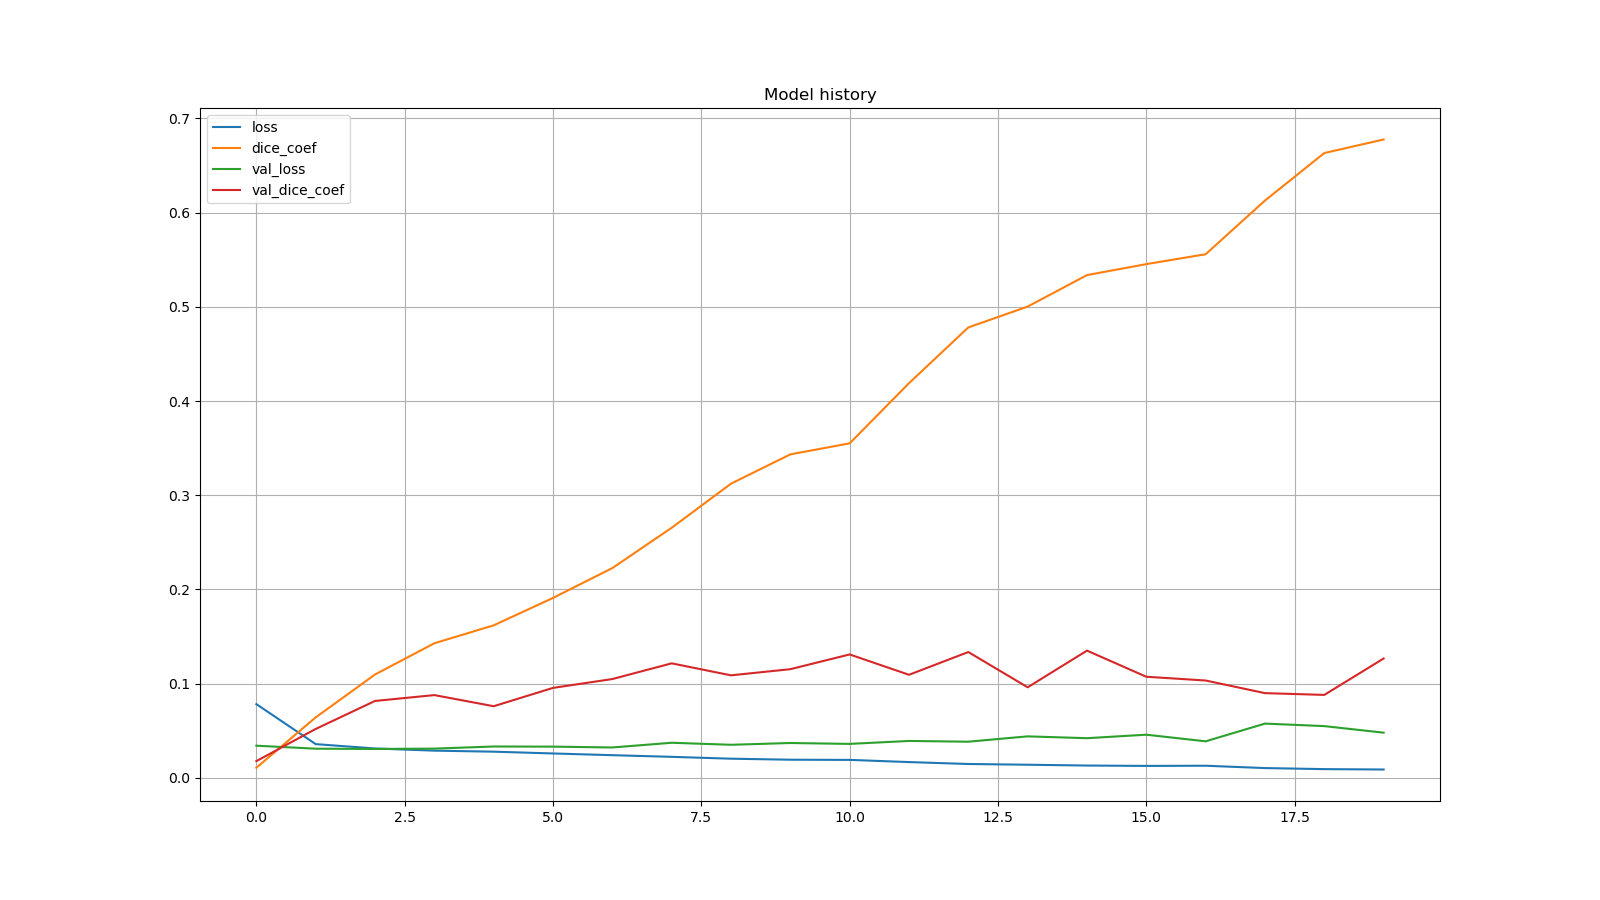
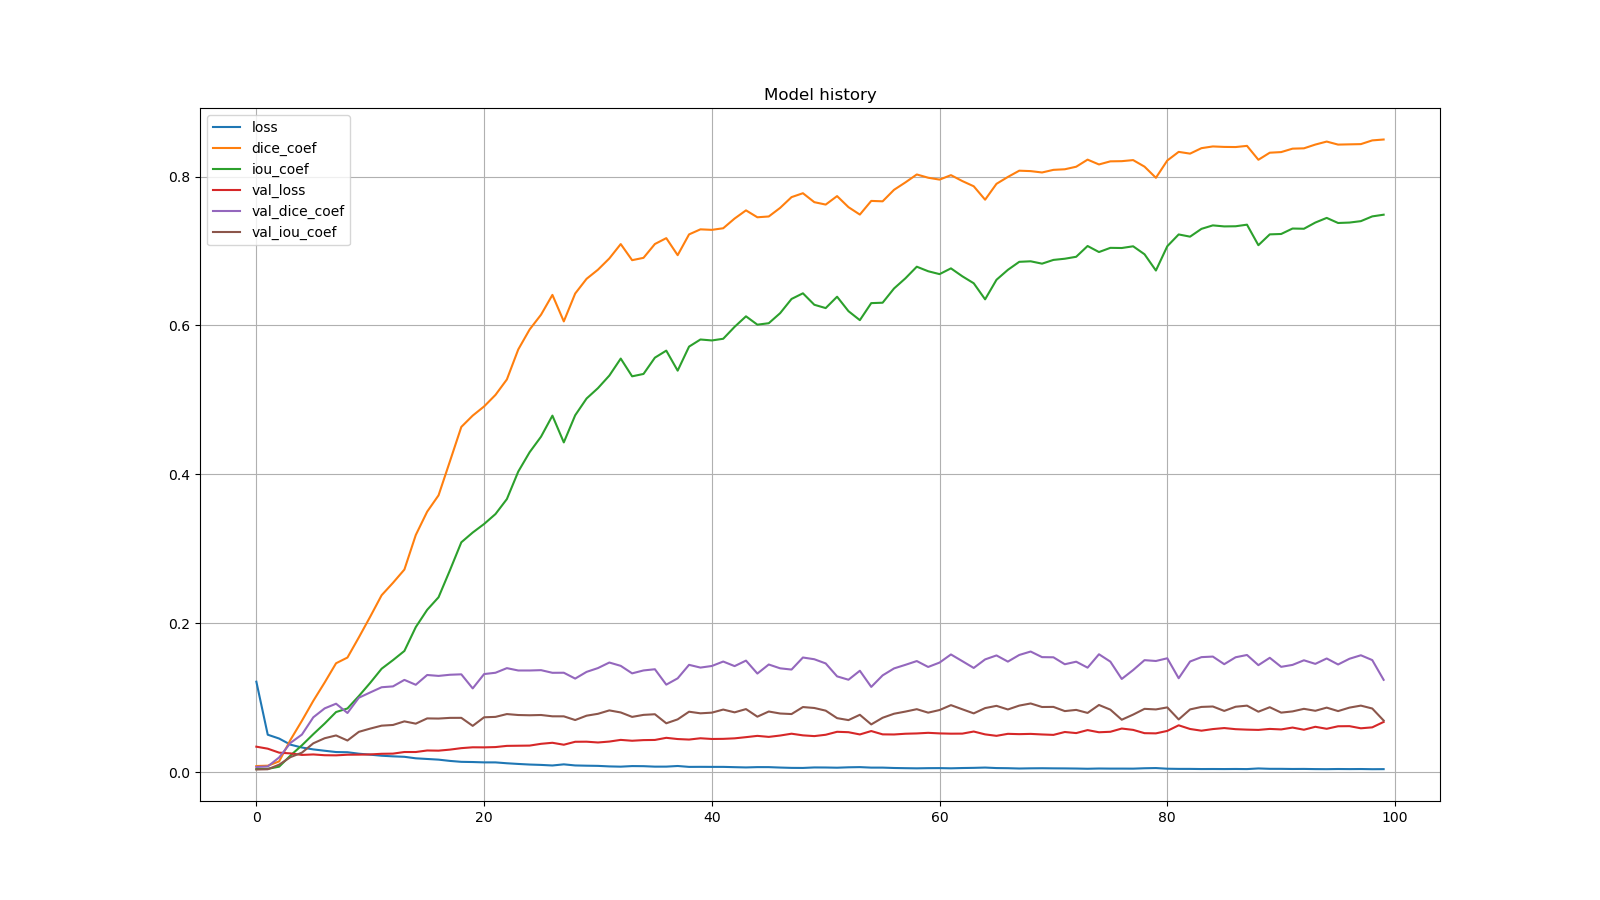
- Added jaccard score to the training and evaluation - Set to train with the whole train set (using test as validation set)

diff --git a/U-Net/train.py b/U-Net/train.py
@@ -7,6 +7,7 @@ import utils
 import os 
 from tensorflow.keras import backend as K
 import numpy as np
+from utils import DiceSimilarity, jaccard
 
 flags.DEFINE_string('train_Dataset','./tfrecords/train-data.tfrecord','path to train Dataset')
 flags.DEFINE_float('val_split',0.2,'size of the validation split')
@@ -15,12 +16,6 @@ flags.DEFINE_integer('buffer_size', 100, 'buffer')
 flags.DEFINE_integer('batch_size', 5, 'batch size')
 flags.DEFINE_integer('epochs', 10, 'Epochs')
 flags.DEFINE_integer('save_freq', 5, 'frequency of epochs to save')
-
-def dice_coef(y_true, y_pred):
-  intersection = K.sum(y_true * y_pred, axis=[1,2,3])
-  union = K.sum(y_true, axis=[1,2,3]) + K.sum(y_pred, axis=[1,2,3])
-  dice = K.mean((2. * intersection)/(union), axis=0)
-  return dice
 
 
 def main(_argv):
@@ -34,8 +29,6 @@ def main(_argv):
 
     # Load train dataset
     
-    # train_Dataset =  utils.load_tfrecord_dataset(train_Dataset_path,image_size)
-    # train_Dataset = train_Dataset.shuffle(buffer_size=FLAGS.buffer_size)
     X_path = "./Dataset_Unificado/Train/Processed_Images"
     Y_path = "./Dataset_Unificado/Train/BinaryMasks"
     X = utils.load_data(X_path,size=image_size)
@@ -43,16 +36,14 @@ def main(_argv):
     Y = Y[:,:,:,0]
     Y = np.expand_dims(Y,axis=-1)
 
-    # Split train and validation according to val_split
+    # Load test dataset
 
-    # train_Dataset, val_Dataset = utils.split_dataset(train_Dataset,FLAGS.val_split)
-
-    # Batch and prefetch
-
-    # train_Dataset = train_Dataset.batch(FLAGS.batch_size,drop_remainder=True)
-    # train_Dataset = train_Dataset.prefetch(buffer_size = tf.data.experimental.AUTOTUNE)
-    # val_Dataset = val_Dataset.batch(FLAGS.batch_size,drop_remainder=True)
-    # val_Dataset = val_Dataset.prefetch(buffer_size = tf.data.experimental.AUTOTUNE)
+    X_val_path = "./Dataset_Unificado/Test/Processed_Images"
+    Y_val_path = "./Dataset_Unificado/Test/BinaryMasks"
+    X_val = utils.load_data(X_val_path,size=image_size)
+    Y_val = utils.load_data(Y_val_path, size=image_size)
+    Y_val = Y_val[:,:,:,0]
+    Y_val = np.expand_dims(Y_val,axis=-1)
 
     # Load model
 
@@ -71,7 +62,7 @@ def main(_argv):
     model.save_weights(checkpoint_path.format(epoch=0))
     model.compile(
                 optimizer = tf.keras.optimizers.Adam(),
-                metrics = [dice_coef],
+                metrics = [utils.dice_coef, utils.iou_coef],
                 loss = tf.keras.losses.BinaryCrossentropy()
                 )
 
@@ -79,8 +70,8 @@ def main(_argv):
     model_history = model.fit(
                             x = X,
                             y = Y,
+                            validation_data = (X_val,Y_val),
                             epochs =FLAGS.epochs,
-                            validation_split = FLAGS.val_split,
                             batch_size = FLAGS.batch_size,
                             callbacks = [cp_callback]
                              )

diff --git a/U-Net/evaluate.py b/U-Net/evaluate.py
@@ -14,11 +14,11 @@ import os
 flags.DEFINE_string('test_images','./Dataset_Unificado/Test/Processed_Images/','path to the test images')
 flags.DEFINE_string('test_masks','./Dataset_Unificado/Test/BinaryMasks/','path to the test masks')
 flags.DEFINE_string('results','./results/','path to save the results')
-flags.DEFINE_string('weights','./weights/cp-0094.ckpt','path of the weights to use')
+flags.DEFINE_string('weights','./weights/cp-0100.ckpt','path of the weights to use')
 
 def main(_argv):
 
-    img_size = 128
+    img_size = 224
 
     images_path = FLAGS.test_images
     masks_path = FLAGS.test_masks
@@ -69,18 +69,20 @@ def main(_argv):
         plt.imsave(os.path.join(results_path, 'Predictions', name), Y_pred[i,:,:,0]+imgs[i,:,:,0], cmap='gray')
 
     
-    # Compute dice for each prediction
+    # Compute dice and jaccard for each prediction
 
-    Dice = [utils.DiceSimilarity(Y[i,:,:], Y_pred[i,:,:,0]) for i in range(Y.shape[0])]
+    Dice = np.array([utils.DiceSimilarity(Y[i,:,:], Y_pred[i,:,:,0]) for i in range(Y.shape[0])])
+    Jaccard = np.array([utils.jaccard(Y[i,:,:], Y_pred[i,:,:,0]) for i in range(Y.shape[0])])
 
     plt.figure(figsize=(16,9))
-    plt.boxplot(np.array(Dice))
-    title = f"""Dice score on test set
-    \n Mean dice = ${round(np.array(Dice).mean(),3)} \pm {round(np.array(Dice).std(),3)}$"""
-    plt.title(title)
-    plt.savefig(os.path.join(results_path, 'TestDice.png'))
+    plt.boxplot([Dice, Jaccard])
+    title = f"""Dice and Jaccard scores on test set
+    \n Mean Dice = ${round(Dice.mean(),3)} \pm {round(Dice.std(),3)}$
+    \n Mean Jaccard = ${round(Jaccard.mean(),3)} \pm {round(Jaccard.std(),3)}$"""
+    plt.title(title,fontsize=10)
+    plt.xticks(ticks=[1,2],labels = ['Dice', 'Jaccard'])
+    plt.savefig(os.path.join(results_path, 'TestScores.png'))
     plt.show()
-    print(f"Mean dice score: {np.array(Dice).mean()} +/- {np.array(Dice).std()}")
-
+    
 if __name__ == '__main__':
     app.run(main)

diff --git a/U-Net/predict.py b/U-Net/predict.py
@@ -8,7 +8,7 @@ import matplotlib.pyplot as plt
 import utils
 import numpy as np
 import cv2
-from model2 import UNET2D
+
 
 
 flags.DEFINE_string("image_path", "./Dataset_Unificado/Test/JPEGImages/yorladis_correa_1055835278_t30.jpg", "input image path")
@@ -26,7 +26,7 @@ def main(_argv):
     out_path = FLAGS.mask_path
     weights_path = FLAGS.weights
     show_results = FLAGS.show_results
-    img_size = 128
+    img_size = 224
     LABELS_PATH = FLAGS.labels
 
     # Read and parse the labelmap file
@@ -44,16 +44,13 @@ def main(_argv):
 
     # Load the model and the weights
     model = get_model(output_channels=1, size=img_size)
-    # model = UNET2D(input_size = (img_size,img_size,1))
     model.load_weights(weights_path)
 
     # Make the prediction
     threshold = 0.5
     Y = model.predict(X)   
-    #Y = tf.argmax(Y,axis=-1)
     Y = Y/Y.max()
     Y = np.where(Y>=threshold,1,0)
-    # Y = utils.categorical2mask(Y[0],labels)
     Y = cv2.resize(Y[0], (img.shape[1],img.shape[0]), interpolation = cv2.INTER_NEAREST) # Resize the prediction to have the same dimensions as the input
 
     if show_results:

diff --git a/U-Net/utils.py b/U-Net/utils.py
@@ -3,6 +3,8 @@ import numpy as np
 import tensorflow as tf
 import matplotlib.pyplot as plt
 import xml.etree.ElementTree as ET
+from tensorflow.keras import backend as K
+from sklearn.metrics import jaccard_score
 
 def download_dataset():
     """
@@ -253,7 +255,22 @@ def DiceImages(PathPred, PathSet):
     return Dice
         
     
+def jaccard(y_true,y_pred):
+    y_true = np.array(y_true)
+    y_pred = np.array(y_pred)
+    y_true = y_true.reshape(-1)
+    y_pred = y_pred.reshape(-1)
+    return jaccard_score(y_true,y_pred)
     
-    
-    
+def dice_coef(y_true, y_pred):
+  intersection = K.sum(y_true * y_pred, axis=[1,2,3])
+  union = K.sum(y_true, axis=[1,2,3]) + K.sum(y_pred, axis=[1,2,3])
+  dice = K.mean((2. * intersection)/(union), axis=0)
+  return dice
+
+def iou_coef(y_true, y_pred):
+  intersection = K.sum(K.abs(y_true * y_pred), axis=[1,2,3])
+  union = K.sum(y_true,[1,2,3])+K.sum(y_pred,[1,2,3])-intersection
+  iou = K.mean((intersection) / (union), axis=0)
+  return iou
 

diff --git a/U-Net/metrics_tests.py b/U-Net/metrics_tests.py
@@ -1,6 +1,7 @@
 import numpy as np
 import matplotlib.pyplot as plt
 from utils import DiceSimilarity, DiceImages
+from sklearn.metrics import jaccard_score
 
 X = plt.imread("Dataset_Unificado/Test/BinaryMasks/maryuri_alvarez_66660829_t5.png")
 
@@ -18,3 +19,12 @@ print(f"Dice similarity of two similar masks {Dice2}")
 Dice3 = DiceImages("./Dataset_Unificado/Test/BinaryMasks/maryuri_alvarez_66660829_t10.png","./Dataset_Unificado/Test/BinaryMasks/maryuri_alvarez_66660829_t5.png")
 
 print(f"Using DiceImages: {Dice3}")
+
+
+Jaccard = jaccard_score(X,X)
+
+print(f"Jaccard score of the same mask: {Jaccard}")
+
+Jaccard2 = jaccard_score(X,Y)
+
+print(f"Jaccard score of two different masks: {Jaccard2}")

diff --git a/U-Net/model.py b/U-Net/model.py
@@ -49,7 +49,7 @@ def get_decoder(skips):
         x = tf.keras.layers.Concatenate()([x,skip])
     return x
 
-def get_model(output_channels=1,size=128,name="U-Net"):
+def get_model(output_channels=1,size=224,name="U-Net"):
     x = inputs = tf.keras.layers.Input(shape=[size,size,3])
 
     skips = get_encoder(input_shape=list(x.shape[1:]))(x)
